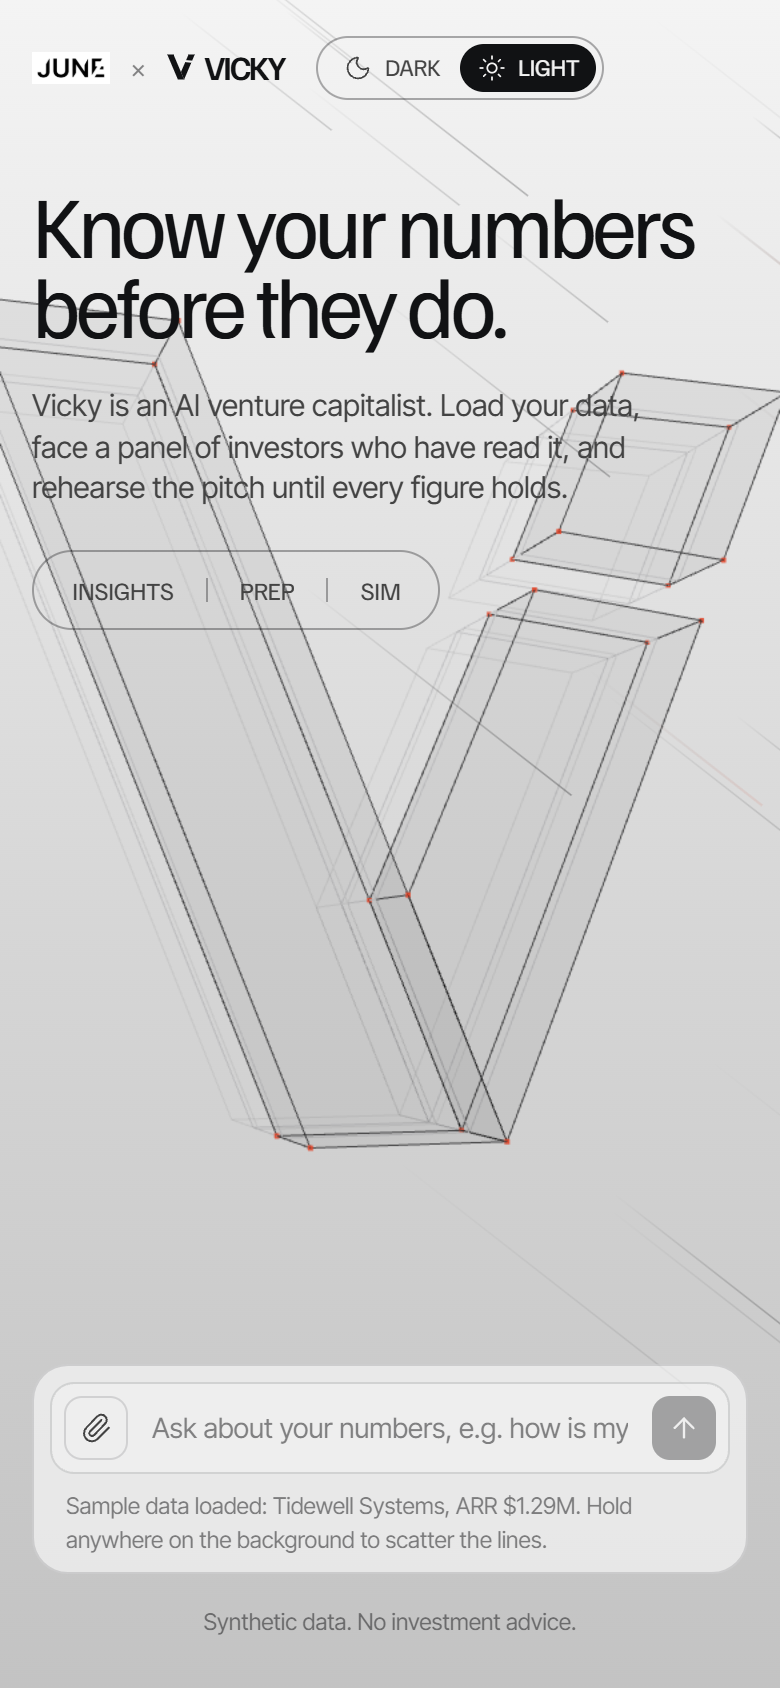
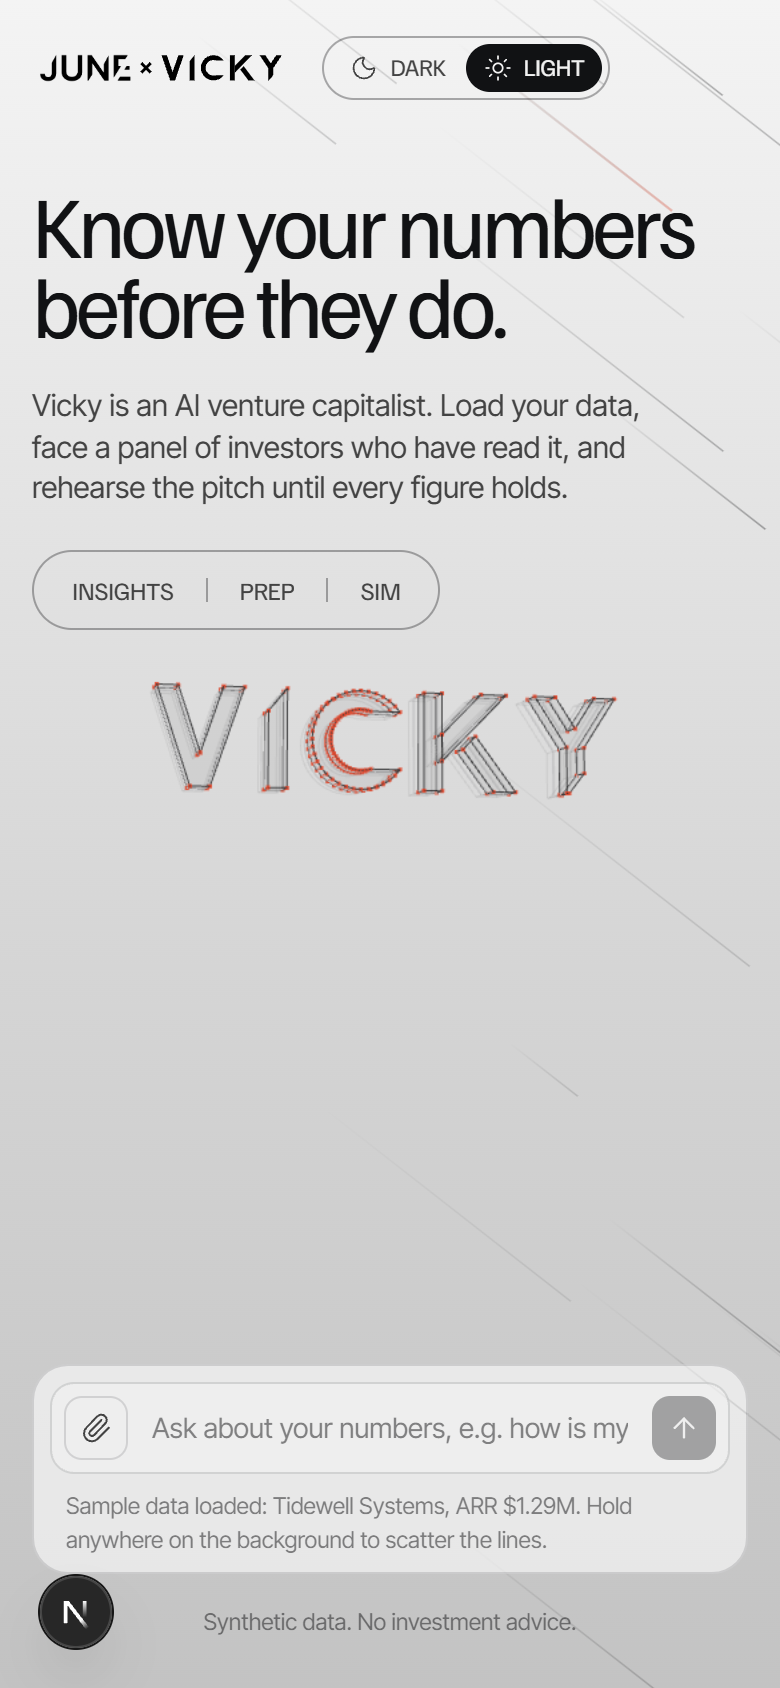
Brand: VMark3D uses ShapePath.toShapes (createShapes deprecated in r185), tighter fit; re-capture page screenshots

diff --git a/frontend/components/fx/VMark3D.tsx b/frontend/components/fx/VMark3D.tsx
@@ -12,7 +12,7 @@ const LOGO_URL = "/brand/Vicky_Logo.svg";
 const DEPTH = 34;
 
 function buildMark(svg: SVGResult) {
-  const shapes = svg.paths.flatMap((p) => SVGLoader.createShapes(p));
+  const shapes = svg.paths.flatMap((p) => p.toShapes());
   const solid = new THREE.ExtrudeGeometry(shapes, { depth: DEPTH, bevelEnabled: false, curveSegments: 16 });
   solid.center();
   solid.rotateX(Math.PI); // SVG y points down; a rotation (not a mirror) keeps the face winding intact
@@ -41,7 +41,7 @@ function Mark({ ink, ember, light }: { ink: string; ember: string; light: boolea
   const { solid, edges, points, size } = useMemo(() => buildMark(svg), [svg]);
   const viewport = useThree((s) => s.viewport);
   // Fit the wordmark to the canvas, leaving room for the sway to swing the near end forward.
-  const scale = Math.min((viewport.width * 0.74) / size.x, (viewport.height * 0.42) / size.y);
+  const scale = Math.min((viewport.width * 0.6) / size.x, (viewport.height * 0.4) / size.y);
 
   useFrame((state) => {
     const g = group.current;
